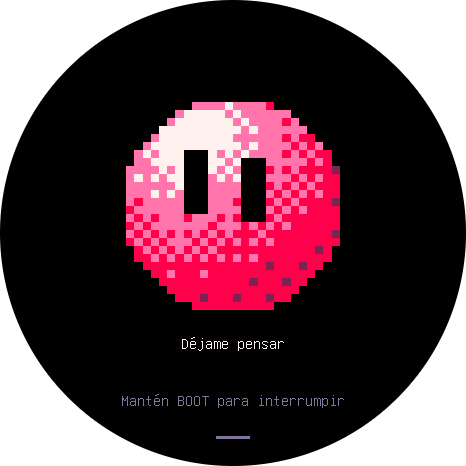
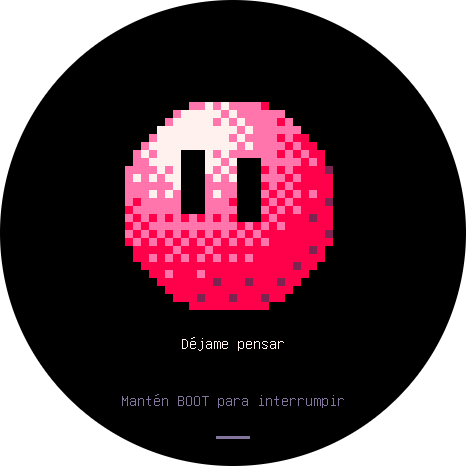
Llena el círculo de pantalla con la respiración en ambos temas

diff --git a/firmware/pet/components/pet_ui/pet_ui.c b/firmware/pet/components/pet_ui/pet_ui.c
@@ -81,7 +81,7 @@ static pet_spring_t s_scale_x,s_scale_y,s_offset,s_rotation,s_eye,s_look,s_breat
 static pet_tween_t offline_tween;
 static int64_t last_us;
 #if PIXEL_THEME
-#define PIXEL_BLOCKS 32   /* lienzo de 32 bloques de 8 px; el orb ocupa unos 27 (≈ los 224 px del suave) y respira dentro */
+#define PIXEL_BLOCKS 60   /* 480 px: contiene el círculo de 466 px, con margen para el tramado */
 #define PIXEL_FRAME_US 125000   /* 8 fotogramas por segundo */
 static uint8_t pixel_buf[PIXEL_BLOCKS*PIXEL_BLOCKS*4] __attribute__((aligned(4)));
 static uint8_t pixel_next[sizeof(pixel_buf)];
@@ -209,6 +209,12 @@ static void motion_step(const pet_pose_t *p,int64_t now_us){
  * que no salte al dar la vuelta ningún contador. Es un seno: ease-in-out por sí mismo. */
 #define BREATH_PERIOD_US 4000000
 static float breath(int64_t now_us){return s_breath.value*sinf((float)(now_us%BREATH_PERIOD_US)/BREATH_PERIOD_US*6.2831853f);}
+/* Uniform inward breathing: the largest idle silhouette is the inscribed circle.
+ * Blend through the existing spring so entering/leaving idle stays continuous. */
+static float idle_scale(int64_t now_us){
+    float wave=(1+sinf((float)(now_us%BREATH_PERIOD_US)/BREATH_PERIOD_US*6.2831853f))*.5f;
+    return (466.0f/224.0f)*(1-.04f*wave);
+}
 /* Mezcla entre el color del orb y el de sin conexión, con --ease-io3 (Cubic) en 320 ms. */
 static int offline_mix(bool offline,int64_t now_us){
     float now=(float)(now_us%600000000)/1e6f;
@@ -232,6 +238,8 @@ static void pixel_orb(uint8_t *buf,float sx,float sy,float offset,float rotation
     float c=PIXEL_BLOCKS/2.0f,cy=c+offset/8,rx=13.4f*sx,ry=13.4f*sy,a=-rotation*3.14159265f/180,ca=cosf(a),sa=sinf(a);
     for(int y=0;y<PIXEL_BLOCKS;y++)for(int x=0;x<PIXEL_BLOCKS;x++){
         float dx0=x+.5f-c,dy0=y+.5f-cy,dx=dx0*ca-dy0*sa,dy=dx0*sa+dy0*ca;
+        float edge_x=fabsf(dx0)*8+4,edge_y=fabsf(y+.5f-c)*8+4;
+        if(edge_x*edge_x+edge_y*edge_y>233*233)continue;
         if((dx*dx)/(rx*rx)+(dy*dy)/(ry*ry)>1)continue;
         float nx=dx/rx,ny=dy/ry,nz=sqrtf(fmaxf(0,1-nx*nx-ny*ny));
         float light=fmaxf(0,-.45f*nx-.6f*ny+.66f*nz);   /* luz normalizada (-0,45, -0,6, 0,66) */
@@ -282,16 +290,21 @@ static void draw(lv_timer_t *timer){
     int64_t frame=now_us/PIXEL_FRAME_US;
     if(frame!=pixel_frame){
         pixel_frame=frame;float b=breath(now_us);
-        pixel_orb(pixel_next,s_scale_x.value-.025f*b,s_scale_y.value+.055f*b,s_offset.value,s_rotation.value,s_eye.value,s_look.value,smile,mix);
+        float idle=fminf(1,fmaxf(0,s_breath.value)),grow=idle*(idle_scale(now_us)*112.0f/107.2f-1);
+        lv_obj_set_y(body,210-PIXEL_BLOCKS/2+(int)lroundf(23*idle));
+        pixel_orb(pixel_next,s_scale_x.value+grow-.025f*b*(1-idle),s_scale_y.value+grow+.055f*b*(1-idle),s_offset.value,s_rotation.value,s_eye.value,s_look.value,smile,mix);
         if(memcmp(pixel_next,pixel_buf,sizeof(pixel_buf))){memcpy(pixel_buf,pixel_next,sizeof(pixel_buf));lv_obj_invalidate(body);}
     }
 #else
     uint32_t color=lv_color_to_u32(lv_color_mix(lv_color_hex(C_OFFLINE),lv_color_hex(C_ORB),(uint8_t)mix))&0xffffff;
     float b=breath(now_us);
+    float idle=fminf(1,fmaxf(0,s_breath.value)),grow=idle*(idle_scale(now_us)-1);
     /* Escala con transform_scale (1/256): el borde se mueve por debajo del píxel. */
-    int sx=(int)lroundf((s_scale_x.value-.010f*b)*256),sy=(int)lroundf((s_scale_y.value+.025f*b)*256);
+    int sx=(int)lroundf((s_scale_x.value+grow-.010f*b*(1-idle))*256),sy=(int)lroundf((s_scale_y.value+grow+.025f*b*(1-idle))*256);
+    /* Never round the maximum idle diameter beyond the physical circle. */
+    if(idle>.999f){if(sx>532)sx=532;if(sy>532)sy=532;}
     int rotation=(int)lroundf(s_rotation.value*10);
-    lv_obj_set_y(body,98+(int)lroundf(s_offset.value));
+    lv_obj_set_y(body,98+(int)lroundf(s_offset.value+23*idle));
     if(sx!=last_sx){last_sx=sx;lv_obj_set_style_transform_scale_x(body,sx,0);}
     if(sy!=last_sy){last_sy=sy;lv_obj_set_style_transform_scale_y(body,sy,0);}
     if(rotation!=last_rotation){last_rotation=rotation;lv_obj_set_style_transform_rotation(body,rotation,0);}

diff --git a/sim/README.md b/sim/README.md
@@ -88,7 +88,7 @@ Común a los dos temas (`firmware/pet/components/pet_ui/pet_motion.c`):
 
 - **Transiciones de estado en 320 ms:** escala, altura, giro y mirada siguen la pose de `pet_core` con muelles críticamente amortiguados. No rebotan y, partiendo de reposo, recorren el camino en forma de S (arranque y frenada suaves); llegan al 95 % en 320 ms. Si el estado cambia a mitad, conservan la velocidad y la transición se encadena.
 - **Ojos:** el mismo tipo de muelle en 110 ms. El parpadeo cierra hacia el centro, y la sonrisa aparece cuando los ojos ya se han cerrado.
-- **Respiración en reposo:** un seno de 4 s que solo cambia la escala (`transform_scale`, 1/256). Entra y sale en 400 ms.
+- **Respiración en reposo:** un seno uniforme de 4 s entre el 96 % y el máximo círculo inscrito de 466 px, centrado en (233, 233). Entra y sale en 400 ms. El suave cuantiza la escala a 1/256 hacia dentro en el máximo; el pixel conserva bloques de 8 px y descarta los que sobresaldrían del círculo físico.
 - **Refresco reducido en reposo:** cuando solo respira, el dibujo baja a 55 ms (unos 18 fps), y LVGL solo pinta si la escala cambia de verdad. Con cualquier cambio vuelve al refresco normal en el siguiente fotograma.
 - **Sin conexión:** el color pasa al gris con `--ease-io3` (Cubic, `cubic-bezier(0.645, 0.045, 0.355, 1)`) en 320 ms. En el tema de 8 bits la mezcla se hace con tramado.
 
@@ -98,3 +98,5 @@ La ventana refresca a 60 Hz con vsync (`LV_DEF_REFR_PERIOD 16` en `lv_conf.h`); 
 
 `--bench` da el coste por fotograma con el periodo de la placa. El tiempo de QSPI sale de los píxeles a 2 bytes y 20 MB/s (40 MHz, 4 líneas). La CPU es la del Mac: sirve para comparar, no es la del S3.
 
+
+La respiración a pantalla completa mantiene los periodos de refresco. Medición orientativa en Mac: reposo suave ≈230 ms QSPI/s y 438 µs CPU por paso; pixel ≈158 ms QSPI/s y 192 µs CPU por paso. El lienzo pixel pasa de 32² a 60²: dos buffers ARGB8888 ocupan 28 800 bytes (antes 8192). No se ha medido CPU/FPS en hardware ni flasheado la placa.
